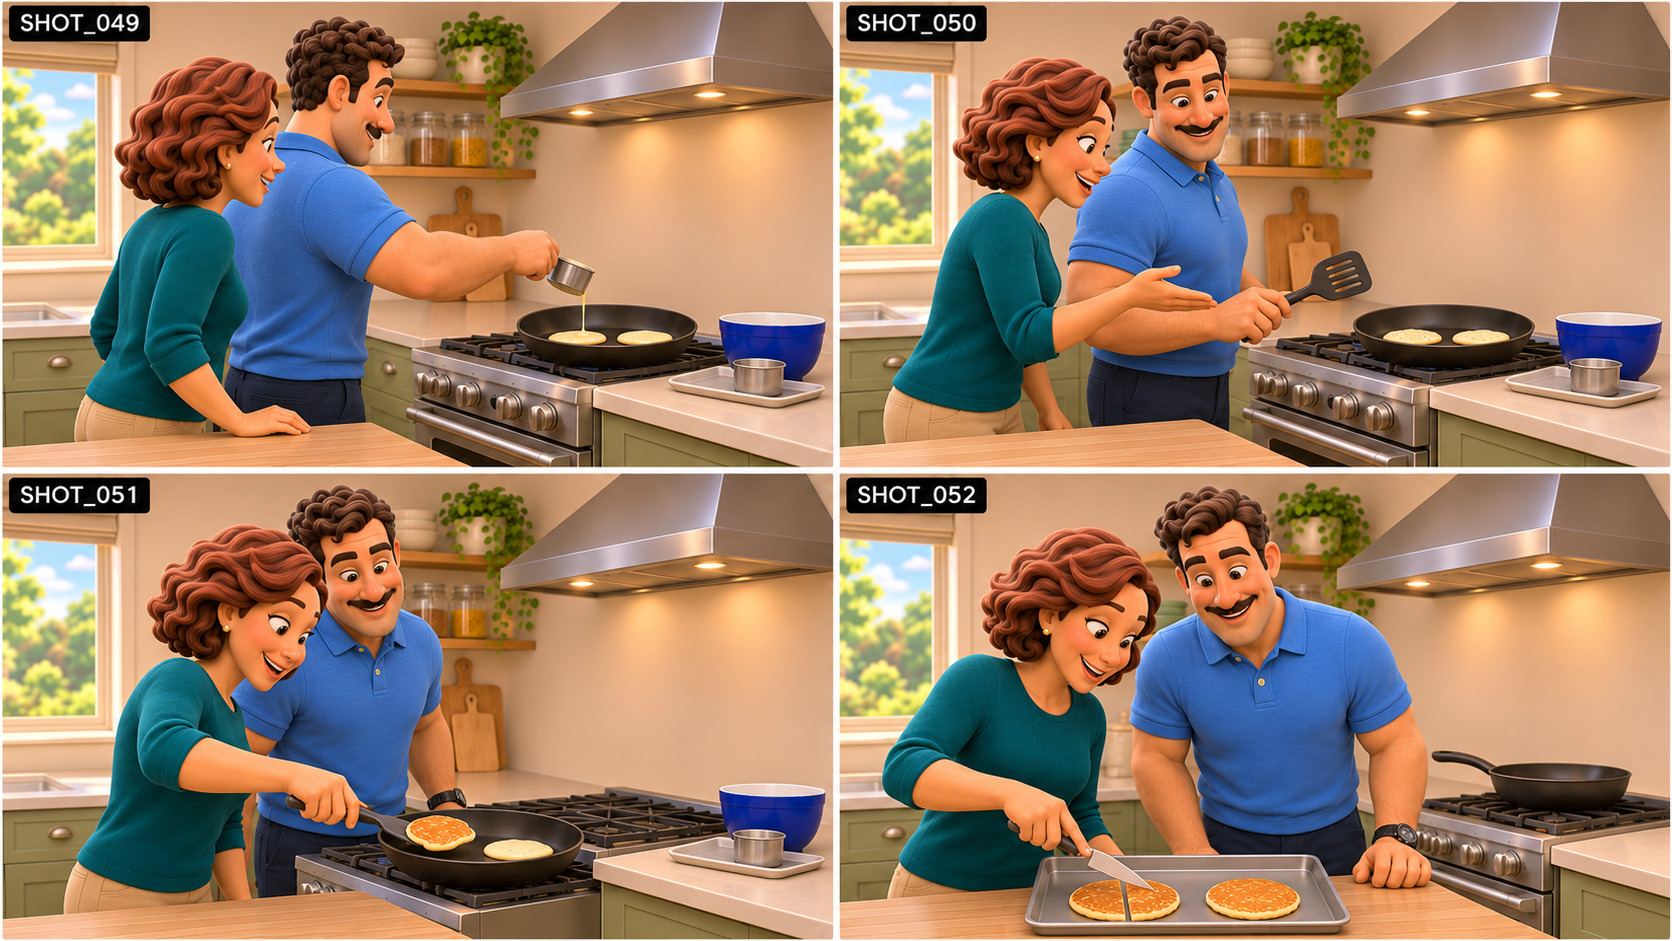
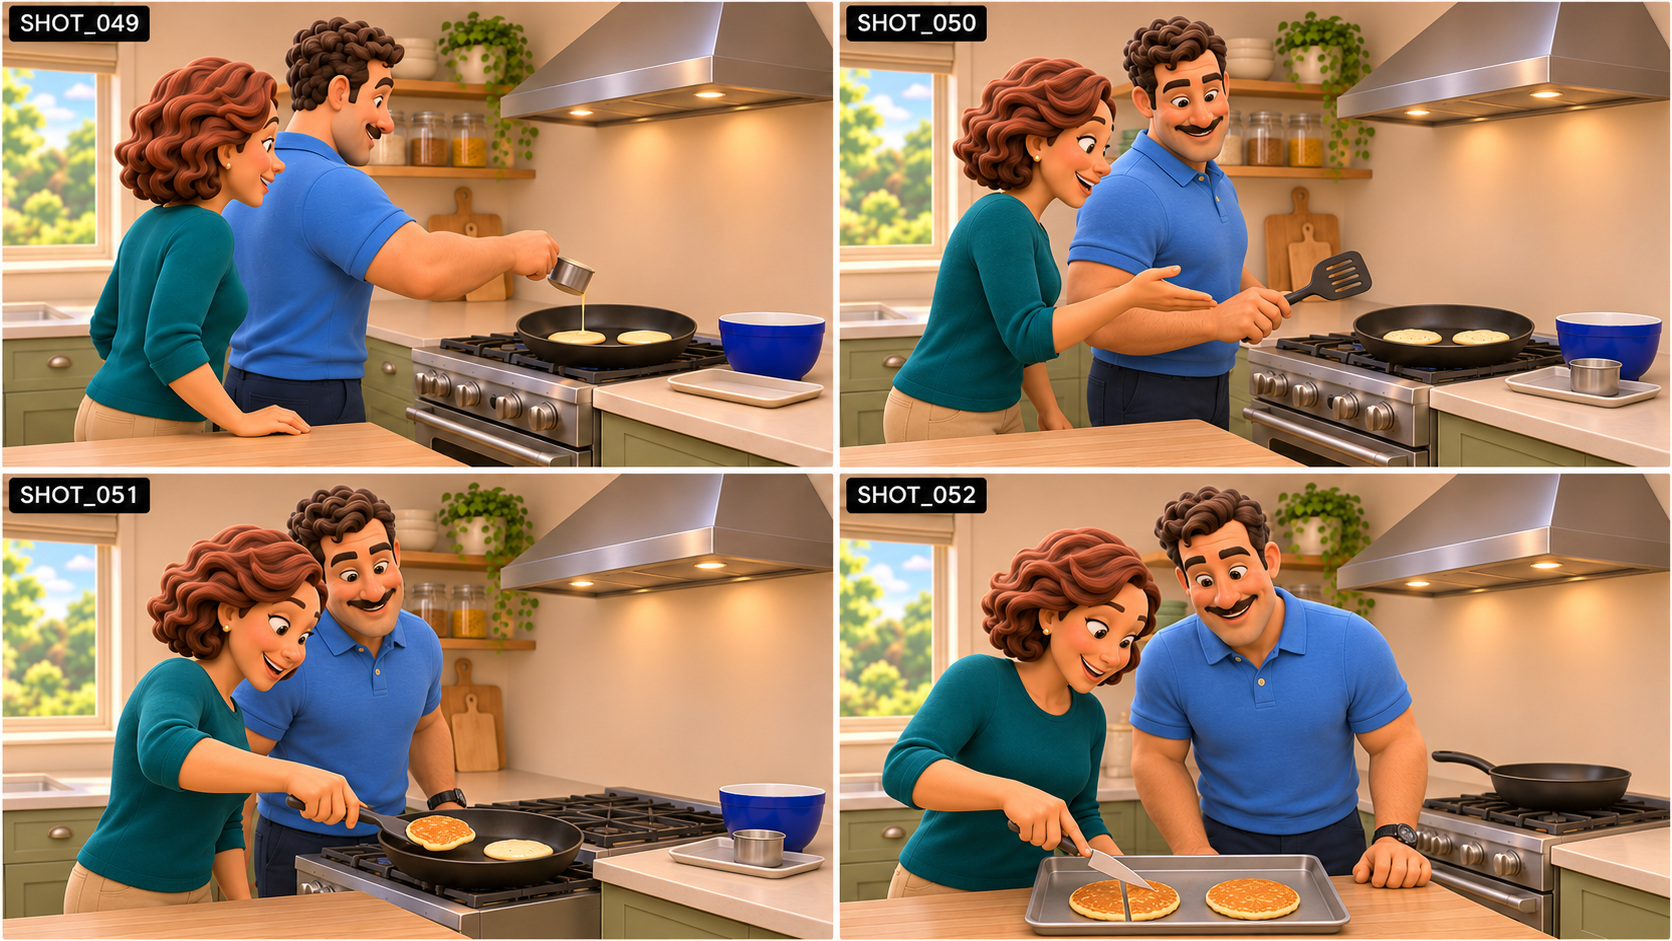
Repair Episode 03 storyboard 13: single batter measure

diff --git a/docs/STORYBOARD_REPAIR_LOG.md b/docs/STORYBOARD_REPAIR_LOG.md
@@ -28,7 +28,8 @@ The active request is to fix the selected storyboard PNGs themselves. Video-prom
 | 01 / BOARD_12 | Kept the flat blue and yellow totes on their wall hook throughout the call, with the separate paper lists on the counter. | [Selected sheet](../Episode_01/assets/storyboards/BOARD_12.png) · [Correction record](../artwork_qa/records/ep01-board12-market-call-totes.json) |
 | 02 / BOARD_03 | Moved the empty basket to Dan’s left forearm and restored the $8 melon price in both counter shots. The cooler-floor shot retains its previous panel pending a clearer staging. | [Selected sheet](../Episode_02/assets/storyboards/BOARD_03.png) · [Correction record](../artwork_qa/records/ep02-board03-basket-and-melon-price.json) |
 | 09 / BOARD_08 | Restored gardening gloves and the supported basil transfer in 029–031. In 032 the crate still goes under a separate work surface. | [Selected sheet](../Episode_09/assets/storyboards/BOARD_08.png) · [Correction record](../artwork_qa/records/ep09-board08-basil-gloves-and-tray.json) |
+| 03 / BOARD_13 | Removed the spare batter measure from 049. The other three panels retain their published pixels. | [Selected sheet](../Episode_03/assets/storyboards/BOARD_13.png) · [Correction record](../artwork_qa/records/ep03-board13-single-batter-measure.json) |
 
-Current QA inventory: **277 shots with major visual defects; 523 awaiting human review**. Selected repairs remove only the visually verified discrepancies recorded above. Creator acceptance and individual motion-frame approval remain pending. Other storyboard defects have not been declared fixed.
+Current QA inventory: **276 shots with major visual defects; 524 awaiting human review**. Selected repairs remove only the visually verified discrepancies recorded above. Creator acceptance and individual motion-frame approval remain pending. Other storyboard defects have not been declared fixed.
 
 Each selected edit preserves the prior image through its parent Git commit, retains the returned ImageGen source, updates all four panel evidence hashes and records what was visually confirmed. The Episode 01 printed-label audit is refreshed against the new pixels. Corrections are committed and pushed as checkpoints before requesting the next image.

diff --git a/CURRENT_PRODUCTION_STATUS.md b/CURRENT_PRODUCTION_STATUS.md
@@ -4,7 +4,7 @@
 
 The 800 clips have 3,228 dialogue turns across ten 20-minute episodes. Each clip has four or five turns. The provisional speaker windows start at 0.25 seconds and allow the final action or reaction to carry into the cut. Each episode’s screenplay, video prompts and subtitles use the same dialogue. The [episode index](README.md#episodes) links directly to the prompts and each episode’s shot findings.
 
-The [image repair log](docs/STORYBOARD_REPAIR_LOG.md) identifies the selected replacement sheets. Current QA records list 277 major visual discrepancies and 523 shots awaiting human review. [Individual findings](docs/qa/) name the correction and the image hash for each panel. Use the [November 19 audit](docs/AUDIT_EP01_EP10.md) for the earlier review.
+The [image repair log](docs/STORYBOARD_REPAIR_LOG.md) identifies the selected replacement sheets. Current QA records list 276 major visual discrepancies and 524 shots awaiting human review. [Individual findings](docs/qa/) name the correction and the image hash for each panel. Use the [November 19 audit](docs/AUDIT_EP01_EP10.md) for the earlier review.
 
 ## Audit branch validation — 2026-11-19
 
